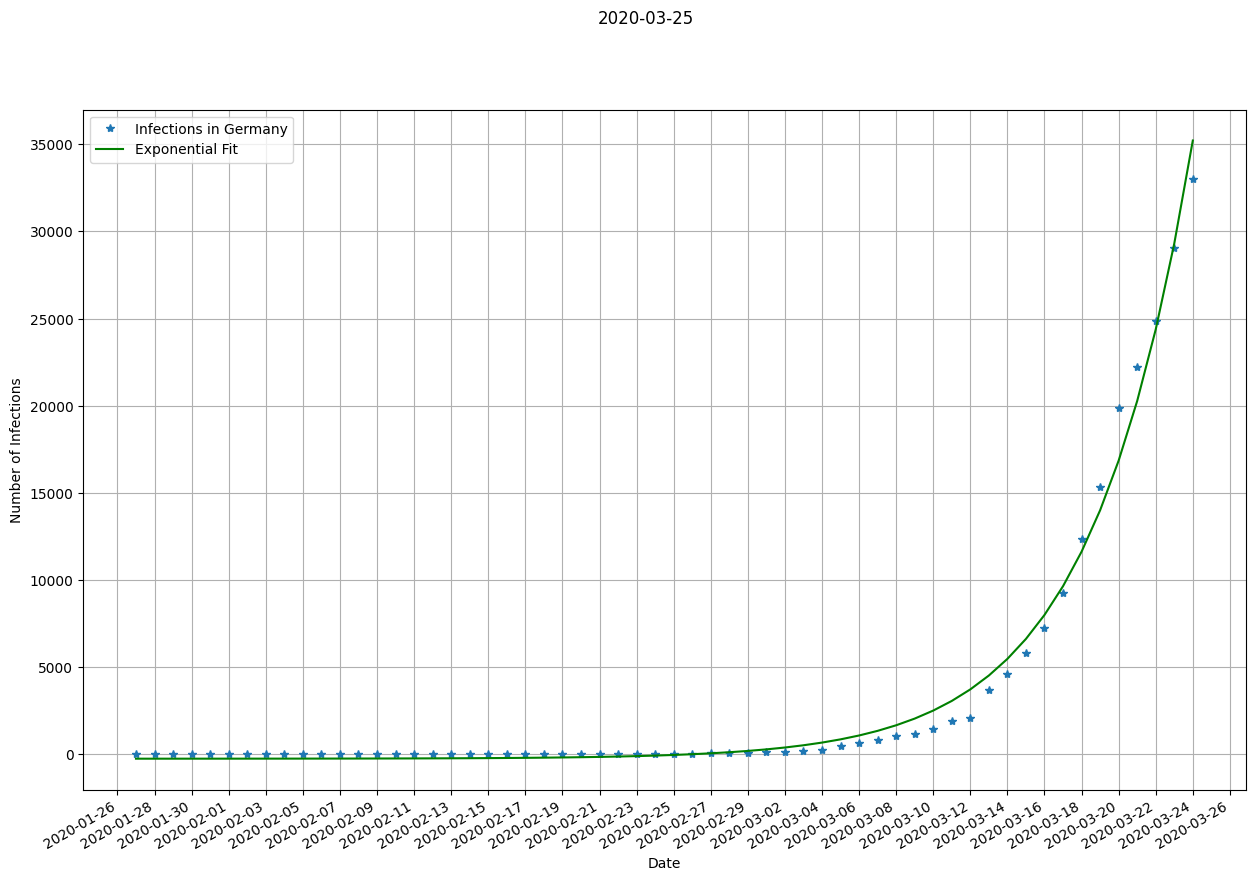
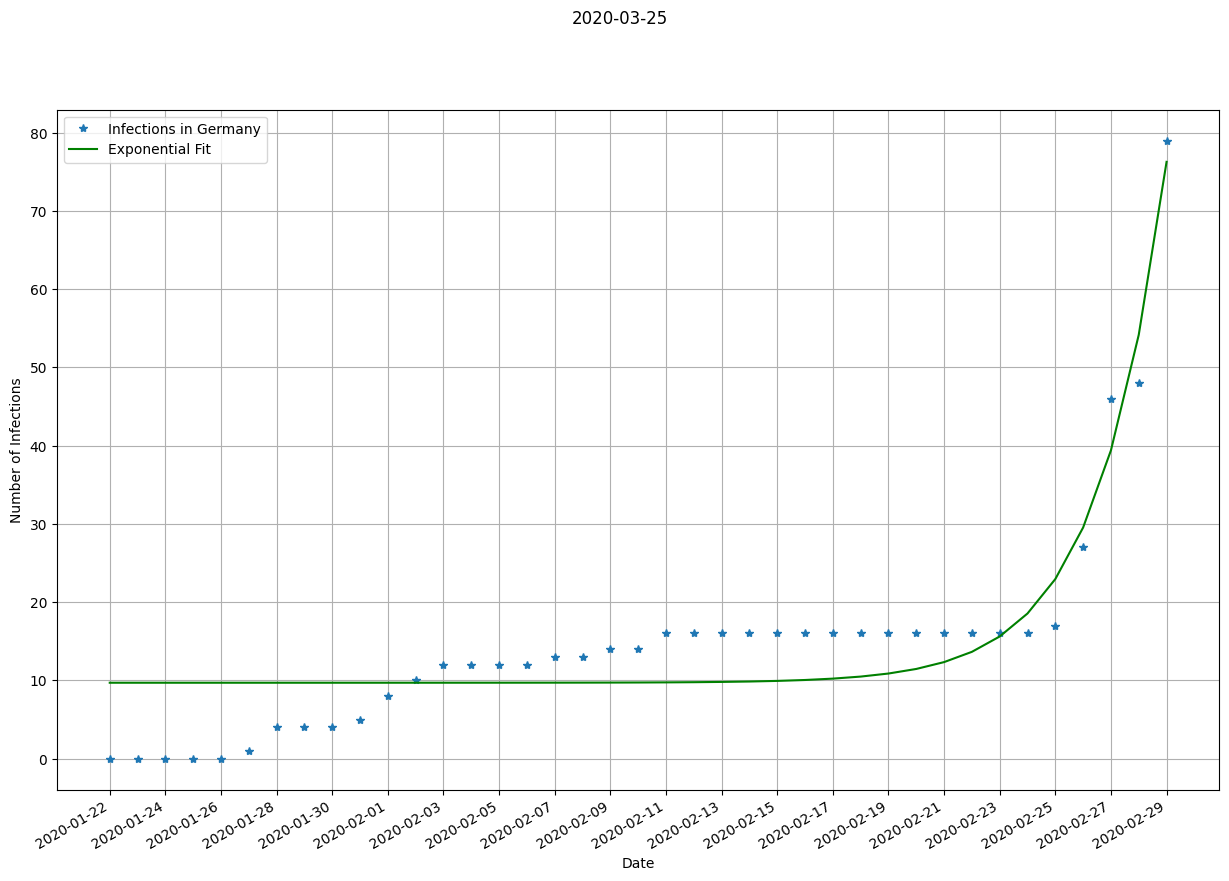
Auto Update

diff --git a/main.py b/main.py
@@ -37,7 +37,7 @@ def main():
     df = df.iloc[0]  # convert to pd.Series
 
     # start with first infections
-    df = df[df.values != 0]
+    df = df[df.values < 100]
 
     # parse to datetime
     df.index = pd.to_datetime(df.index, format='%m/%d/%y')
@@ -110,7 +110,8 @@ if __name__ == '__main__':
             download_csv()
         else:
             os.remove(CSV_FILENAME)
-            
+            download_csv()
+
         main()
         git_push()
         time.sleep(UPDATE_EVERY_HOUR*60*60)
